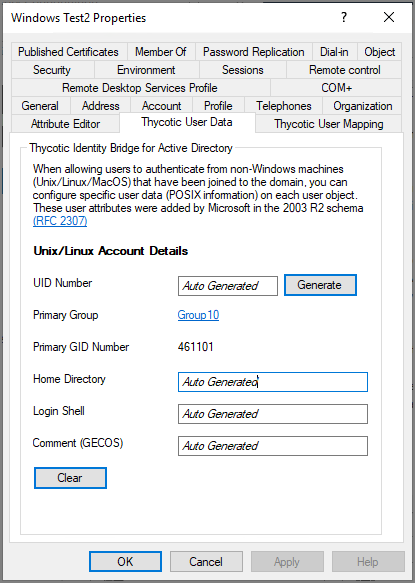
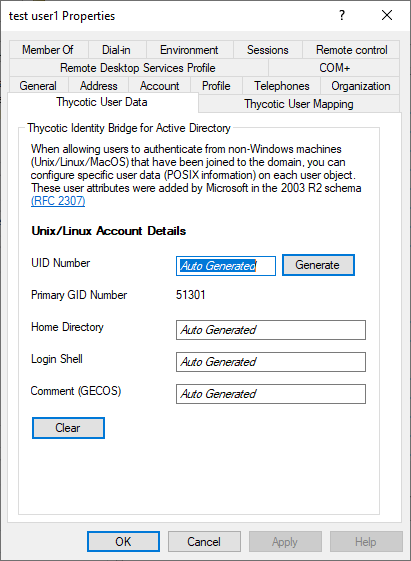
#211808: aduc removal primary group

diff --git a/aduc-ext/users.md b/aduc-ext/users.md
@@ -28,16 +28,9 @@ These fields can be manually overridden and will display as such once saved.
 
 ![generate](images/generate.png "User Data tab - Generate User")
 
-## Primary Group
-
-Opens the AD Group Modal to search and select an AD group to be assigned as Primary Group for the user account.
-
-* Only one group can be selected and assigned at a time.
-* If a group is selected that doesn’t have a Primary GID, you will be presented with the Thycotic GID generation modal.
-
 ## Primary GID
 
-* The GID number of the Primary group assigned to the user
+The GID number of the Primary group assigned to the user under the Member of Panel of the User Properties.
 
 ## Home Directory
 

diff --git a/aduc-ext/ou-overrides.md b/aduc-ext/ou-overrides.md
@@ -20,15 +20,9 @@ When using the global configuration a banner will be displayed.
 
 Defines the Linux/Unix shell that will be assigned to that user on login.
 
-## Primary Group
-
-* Opens the AD Group Modal to search and select an AD group to be assigned as Primary Group for the user account.
-* Only one group can be selected and assigned at a time.
-* If a group is selected that doesn’t have a Primary GID, you will be presented with the Thycotic GID generation modal.
-
 ## Primary GID
 
-The GID number of the Primary group assigned to the user.
+The GID number of the Primary group assigned to the user under the Member Of Panel of the User Properties.
 
 ## Clear
 
